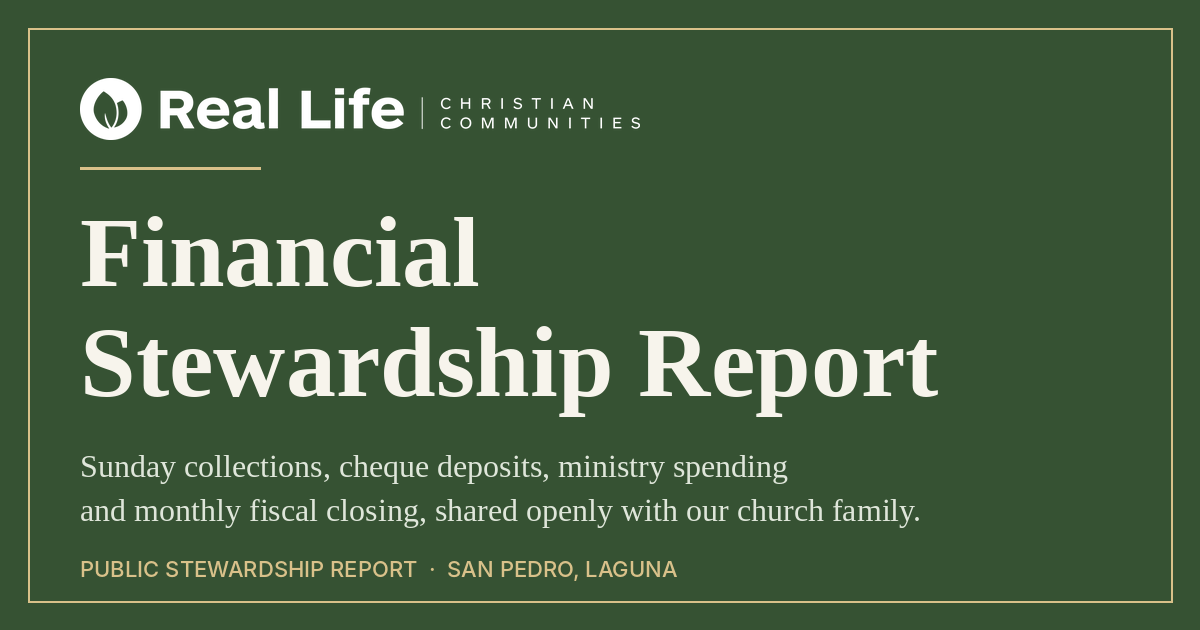
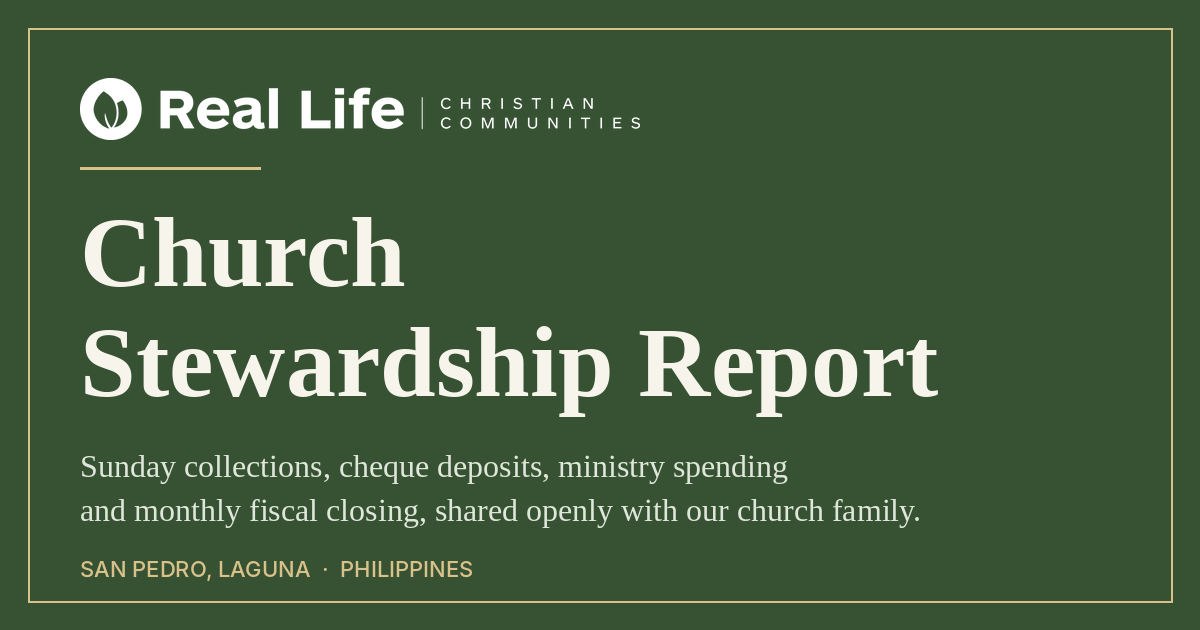
Add files via upload

Changed region(s): [[0.0617, 0.3317, 0.4008, 0.4524], [0.0617, 0.8746, 0.555, 0.9349]]

diff --git a/index.html b/index.html
@@ -6,18 +6,18 @@
   <meta name="artifact-type" content="dashboard">
   <meta name="design-style" content="charter">
   <meta name="theme-color" content="#365233">
-  <meta name="description" content="RLCC public financial stewardship report: Sunday collections, cheque deposits, categorized ministry spending, and monthly closing status.">
+  <meta name="description" content="RLCC church financial stewardship report: Sunday collections, cheque deposits, categorized ministry spending, and monthly closing status.">
   <meta property="og:type" content="website">
   <meta property="og:site_name" content="Real Life Christian Communities">
-  <meta property="og:title" content="RLCC Financial Stewardship Report">
+  <meta property="og:title" content="RLCC Church Stewardship Report">
   <meta property="og:description" content="Sunday collections, cheque deposits, ministry spending, and monthly closing status, shared openly with our church family.">
   <meta property="og:image" content="https://rlccphil.github.io/finance-dashboard/og-image.png">
   <meta property="og:image:width" content="1200">
   <meta property="og:image:height" content="630">
-  <meta property="og:image:alt" content="RLCC Financial Stewardship Report on a green background">
+  <meta property="og:image:alt" content="RLCC Church Stewardship Report on a green background">
   <meta name="twitter:card" content="summary_large_image">
   <meta name="twitter:image" content="https://rlccphil.github.io/finance-dashboard/og-image.png">
-  <title>RLCC Financial Stewardship Report — FY 2026</title>
+  <title>RLCC Church Stewardship Report — FY 2026</title>
   <link href="https://fonts.googleapis.com/css2?family=Libre+Caslon+Text:ital,wght@0,400;0,700;1,400&family=Inter:wght@100..900&display=swap" rel="stylesheet">
   <script src="https://cdn.jsdelivr.net/npm/chart.js@4.5.1/dist/chart.umd.min.js"></script>
   <style>
@@ -822,10 +822,10 @@
     <div class="title-band-inner">
       <div>
[1 lines of base64/hex data omitted]
-        <p class="title-kicker" id="title-kicker">Fiscal Year 2026 Public Stewardship Report</p>
-        <h1>RLCC Financial Stewardship Dashboard</h1>
+        <p class="title-kicker" id="title-kicker">Fiscal Year 2026</p>
+        <h1>RLCC Church Stewardship Report</h1>
         <p class="lede">
-          Public summary of Sunday worship collections, cheque deposits, categorized ministry disbursements, and monthly fiscal closing status. All individual giver, staff, and steward identities have been omitted.
+          Summary of Sunday worship collections, cheque deposits, categorized ministry disbursements, and monthly fiscal closing status. All individual giver, staff, and steward identities have been omitted.
         </p>
       </div>
       <div class="report-stamp">
@@ -2109,11 +2109,11 @@
     function applyMetaToPage() {
       const m = REPORT_META;
       const y = m.year;
-      document.title = `RLCC Financial Stewardship Report — FY ` + y;
+      document.title = `RLCC Church Stewardship Report — FY ` + y;
 
       const kicker = document.getElementById(`title-kicker`);
       if (kicker) {
-        kicker.textContent = `Fiscal Year ` + y + ` Public Stewardship Report · ` +
+        kicker.textContent = `Fiscal Year ` + y + ` · ` +
           MONTH_NAMES[m.firstMonth - 1] + ` 1 – ` + longDate(m.lastDate);
       }
 
@@ -2138,7 +2138,7 @@
           longDate(m.firstDate).replace(`, ` + y, ``) + ` – ` + longDate(m.lastDate) + `), Cheque Register (` +
           CHEQUES.length + ` deposits), Categorized Disbursement Records (` + DISBURSEMENTS.length +
           ` entries), Posting Status Schedule (Months 1–12), and Community Directory Aggregates. ` +
-          `All personal names, account numbers, and individual transaction ledgers are omitted for public reporting.`;
+          `All personal names, account numbers, and individual transaction ledgers are omitted from this report.`;
       }
 
       const c = document.getElementById(`footer-coverage`);
